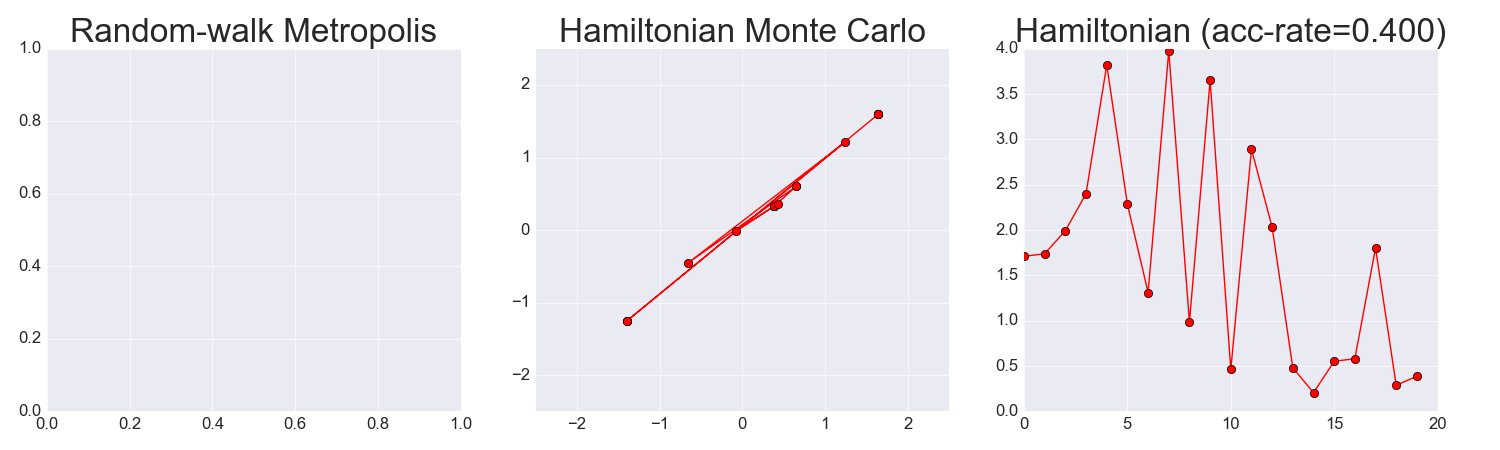
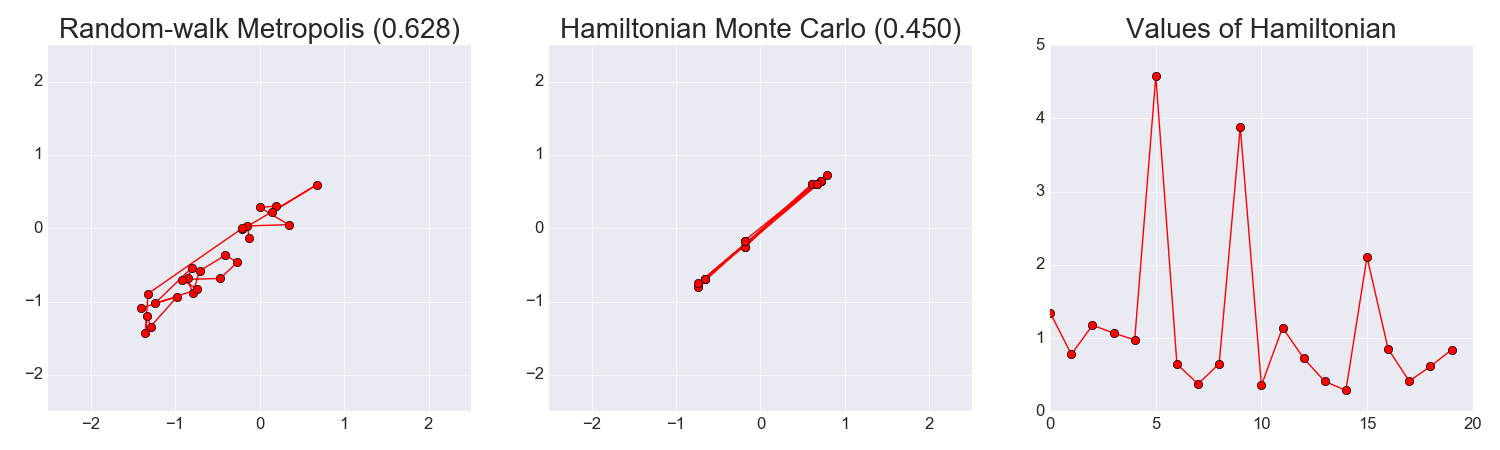
Hmmm ... got random walk working.
Actually my rejection rate DOES match his. So my conclusion is that HMC is bugged somewhere. I will continue checking

diff --git a/hamiltonian_neal/bivariate_gaussian_multiple_leapfrogs.py b/hamiltonian_neal/bivariate_gaussian_multiple_leapfrogs.py
@@ -49,51 +49,94 @@ def leapfrog(current_q, cov, eps, L):
     current_H = f_H(current_q, current_p, cov)
     proposed_H = f_H(q, p, cov)
     test_stat = np.exp(-proposed_H + current_H)
-    print(test_stat)
     if (np.random.rand() < test_stat):
         return (q, 1, proposed_H[0]) # accept proposed sample
     else:
         return (current_q, 0, current_H[0])
-   
 
-def run_samples(N, eps, L):
+
+def run_samples_hmc(s, covariance, N, eps, L):
     """
-    Runs the example in Setion 5.3.3.2 in Neal's paper. I am assuming he used
-    the same starting q?
+    Runs the example in Setion 5.3.3.2 in Neal's paper using Hamiltonian Monte
+    Carlo. I am assuming he used the same starting q?
     """
-    cov = np.array([[1, 0.98],[0.98, 1]]).astype('float32')
-    q = np.array([[-1.50],[-1.55]]).astype('float32')
     positions = np.zeros((2,N))
-    hamiltonians = []
     acc_rate = 0.0
+    hamiltonians = []
+    q = np.copy(s)
     
     for i in range(N):
-        q, a, h = leapfrog(q, cov, eps, L)
+        q, a, h = leapfrog(q, covariance, eps, L)
         positions[:,i] = q.reshape(2,)
         acc_rate += a
         hamiltonians.append(h)
 
     hamiltonians = np.array(hamiltonians)
     acc_rate = acc_rate / N
-    return positions, hamiltonians, acc_rate
+    return positions, acc_rate, hamiltonians
 
 
-def plot(positions, hamiltonians, acc_rate):
+def run_samples_rw(s, cov_rw, cov_distr, N):
     """ 
-    This creates two plots. One is to match Neal's figure. The other is for
-    understanding the gradients of the momentums. 
+    Runs a simple random walk, with provided covariance.  Here, the desired
+    distribution is proprtional to exp(-0.5*q^T*inv(cov_distr)*q) so this is the
+    value p(q) used in the ratio p(q')/p(q) for the acceptance test:
+
+    p(q')/p(q) = exp(-0.5*(q')^T*inv(cov_distr)*(q')) / exp(-0.5*q^T*inv(cov_distr)*q)
+               = exp( -0.5*(q')^T*inv(cov_distr)*(q') + 0.5*q^T*inv(cov_distr)*q )
     """
+    positions = np.zeros((2,N))
+    acc_rate = 0.0
+    curr_q = s
+    cov_inv = np.linalg.inv(cov_distr)
+
+    for i in range(N):
+        prop_q = np.random.multivariate_normal(mean=curr_q.reshape(2,), cov=cov_rw).reshape((2,1))
+        term_prop = 0.5 * (prop_q.T).dot(cov_inv).dot(prop_q)
+        term_curr = 0.5 * (curr_q.T).dot(cov_inv).dot(curr_q)
+        test_stat = np.exp((-term_prop + term_curr)[0,0])
+        if (np.random.random() < test_stat):
+            curr_q = prop_q
+            acc_rate += 1
+        positions[:,i] = curr_q.reshape(2,)
+
+    acc_rate = acc_rate / N
+    return positions, acc_rate
+
+
+def plot(positions, acc_rate, hamiltonians, positions_rw, acc_rate_rw):
+    """  For plotting. """
     fig, axarr = plt.subplots(1,3, figsize=(15,4.5))
-    axarr[0].set_title("Random-walk Metropolis", fontsize=24)
+
+    axarr[0].plot(positions_rw[0,:][::20], positions_rw[1,:][::20], '-ro')
+    axarr[0].set_title("Random-walk Metropolis ({:.3f})".format(acc_rate_rw), fontsize=20)
+    axarr[0].set_xlim([-2.5,2.5])
+    axarr[0].set_ylim([-2.5,2.5])
+
     axarr[1].plot(positions[0,:], positions[1,:], '-ro')
-    axarr[1].set_title("Hamiltonian Monte Carlo", fontsize=24)
+    axarr[1].set_title("Hamiltonian Monte Carlo ({:.3f})".format(acc_rate), fontsize=20)
     axarr[1].set_xlim([-2.5,2.5])
     axarr[1].set_ylim([-2.5,2.5])
+
     axarr[2].plot(hamiltonians, '-ro')
-    axarr[2].set_title("Hamiltonian (acc-rate={:.3f})".format(acc_rate), fontsize=24)
+    axarr[2].set_title("Values of Hamiltonian", fontsize=20)
     plt.tight_layout()
     plt.savefig(FIG_DIR+"bivariate_gaussians_many_samples.png")
 
+
 if __name__ == "__main__":
-    positions, hamiltonians, acc_rate = run_samples(N=20, eps=0.18, L=20)
-    plot(positions, hamiltonians, acc_rate)
+    """ Define different covariances, but keep the same starting location. """
+    cov_ham = np.array([[1, 0.98],[0.98, 1]]).astype('float32')
+    cov_rw = np.array([[1, 0],[0, 1]]).astype('float32') * (0.18**2)
+    start_q = np.array([[0],[0]]).astype('float32')
+
+    positions, acc_rate, hamiltonians = run_samples_hmc(s=np.copy(start_q),
+                                                        covariance=cov_ham,
+                                                        N=20, 
+                                                        eps=0.18, 
+                                                        L=20)
+    positions_rw, acc_rate_rw = run_samples_rw(s=np.copy(start_q),
+                                               cov_rw=cov_rw,
+                                               cov_distr=cov_ham,
+                                               N=500)
+    plot(positions, acc_rate, hamiltonians, positions_rw, acc_rate_rw)
